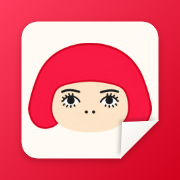
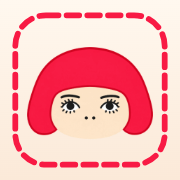
v1.0.11: 아이콘·파비콘을 칼선 점선으로

diff --git a/public/config.js b/public/config.js
@@ -64,7 +64,7 @@ function setPresetId(id) {
 // 앱 버전 — 배포할 때마다 올린다 (큰 기능: 가운데 숫자, 고침: 끝 숫자)
 const APP = {
   name: 'Hongido Stickers',
-  version: '1.0.10',
+  version: '1.0.11',
   date: '2026-11-21',
   maker: 'Seoulrain',        // 서울비
 };

diff --git a/SPEC.md b/SPEC.md
@@ -112,6 +112,7 @@
 - 2026-11-21: v1.0.1 — 넣는 방향 글자를 'FEED'로(한글이 가로로 넓어 보여서), 만든 사람을 'Made by Seoulbi for Hongido'로(두 사람처럼 읽혀서). README에 만든 계기(캐논 PIXMA TS8190, PS-108 대체로 A-one 29602, 캔바 위치 맞추기의 번거로움), 용지 추가 요청 방법, Claude Code로 만들었다는 내용 추가. 저장소를 공개로 전환.
 - 2026-11-21: v1.0.2 — 만든 사람 표기를 README와 앱 모두 'Made by seoulrain for Hongido'로 통일.
 - 2026-11-21: v1.0.3 — 표기를 'Seoulrain'(첫 글자 대문자)으로.
+- 2026-11-21: v1.0.11 — 떼어지는 스티커는 빨간 바탕이 테두리처럼 보이고 접힌 느낌이 약해서, 홈 화면 아이콘·파비콘을 '칼선 점선'으로: 크림색 종이 위 홍이도 얼굴, 둘레에 굵고 성긴 빨간 점선 칼선(작게 봐도 보이게). 파비콘은 같은 그림을 둥근 모서리로, 바깥은 투명.
 - 2026-11-21: v1.0.10 — 격자 바탕은 그만두고, 홈 화면 아이콘·파비콘을 '떼어지는 스티커'로 통일: 머리색 빨강 바탕 위 흰 스티커에 홍이도 얼굴, 오른쪽 아래 모서리가 들려 있음. 파비콘은 같은 그림을 둥근 모서리로 잘라 바깥은 투명.
 - 2026-11-21: v1.0.9 — 홈 화면 아이콘 바탕 격자를 굵은 흰 선(아이콘의 4.5%) 3×3으로. 아이폰 바탕화면 크기에서도 또렷하게 보이고, 스티커 용지의 9칸을 떠올리게 한다.
 - 2026-11-21: v1.0.8 — 홈 화면 아이콘 바탕을 검은 바둑판(흰 격자 8칸, 가운데 선은 조금 진하게)으로. 밝은 종이 위 옅은 격자는 작게 보면 안 보여서. 커팅 매트 위에 다이컷 스티커를 올린 모습.

diff --git a/README.md b/README.md
@@ -6,7 +6,7 @@
 
 <p align="center">
   사진만 고르면 스티커 용지의 정해진 칸에 꼭 맞게 인쇄되는 아이폰용 웹앱<br>
-  <b>v1.0.10</b> · 2026.11.21 · Made by Seoulrain for Hongido
+  <b>v1.0.11</b> · 2026.11.21 · Made by Seoulrain for Hongido
 </p>
 
 ---
@@ -98,6 +98,7 @@ python -m http.server 8000 --directory public
 ## 버전
 | 버전 | 날짜 | 내용 |
 |---|---|---|
+| v1.0.11 | 2026.11.21 | 홈 화면 아이콘·파비콘을 '칼선 점선'으로 |
 | v1.0.10 | 2026.11.21 | 홈 화면 아이콘·파비콘을 '떼어지는 스티커'로 통일 |
 | v1.0.9 | 2026.11.21 | 홈 화면 아이콘 바탕을 굵은 흰 선 3×3 격자로 |
 | v1.0.8 | 2026.11.21 | 홈 화면 아이콘 바탕을 검은 바둑판(흰 격자)으로 |
